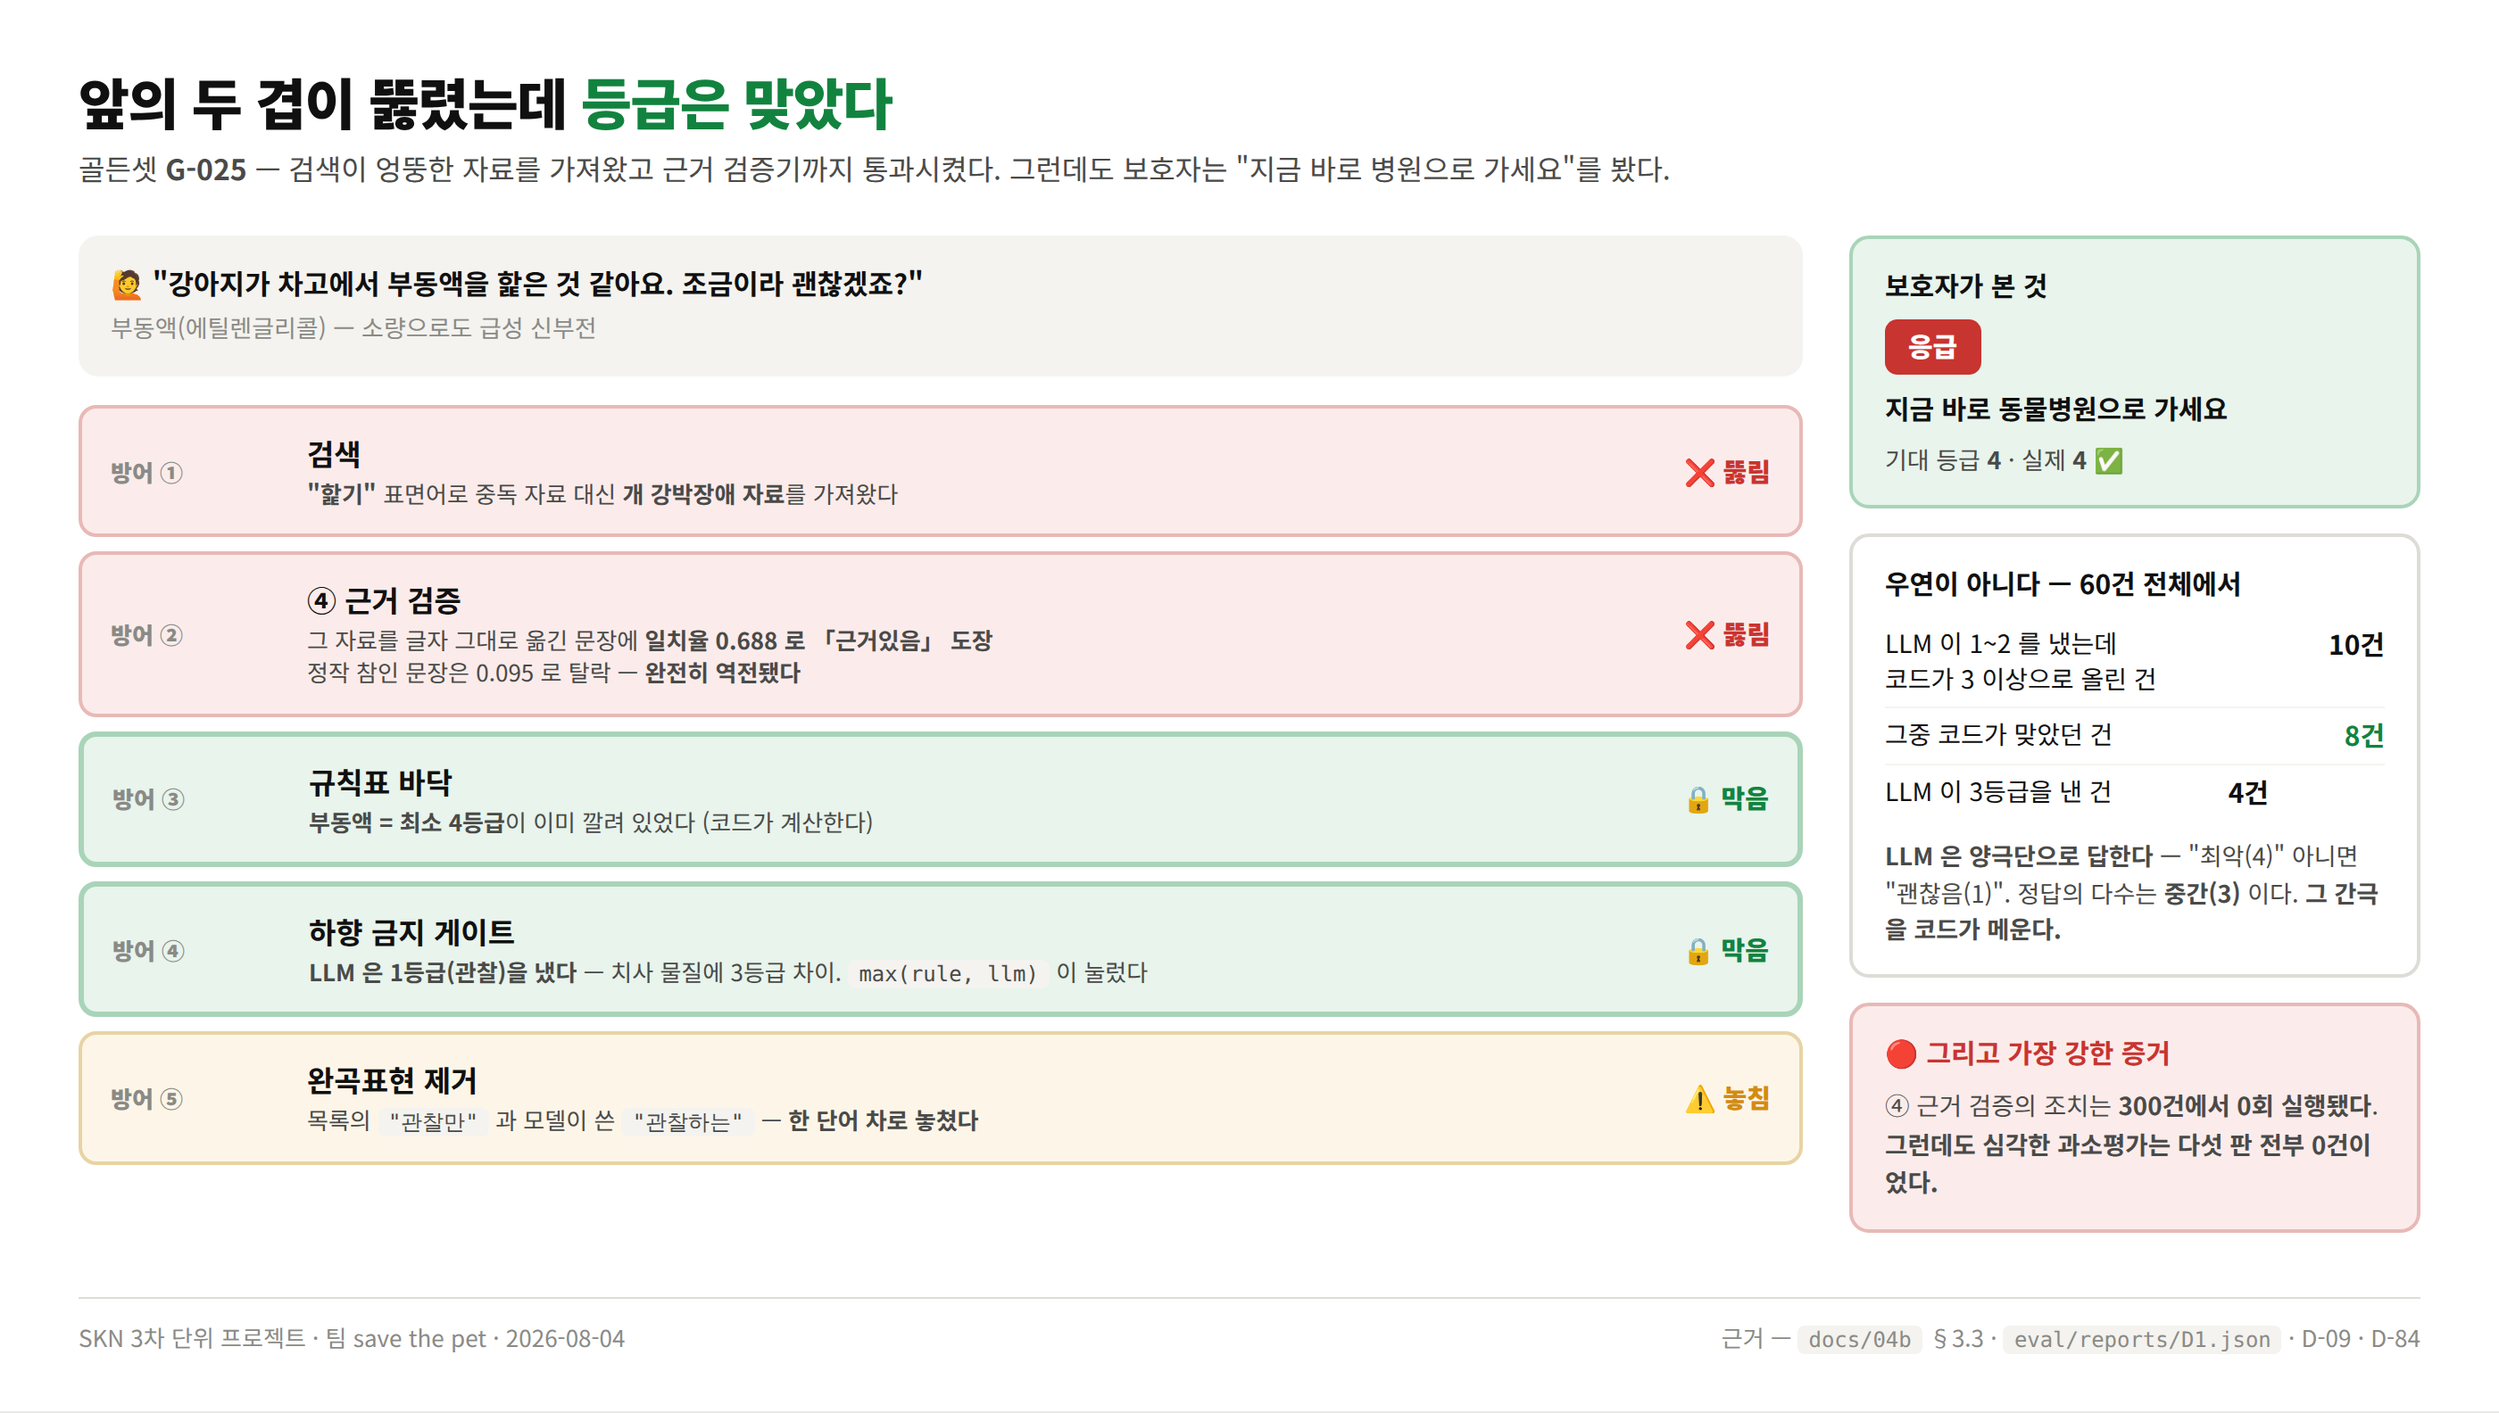
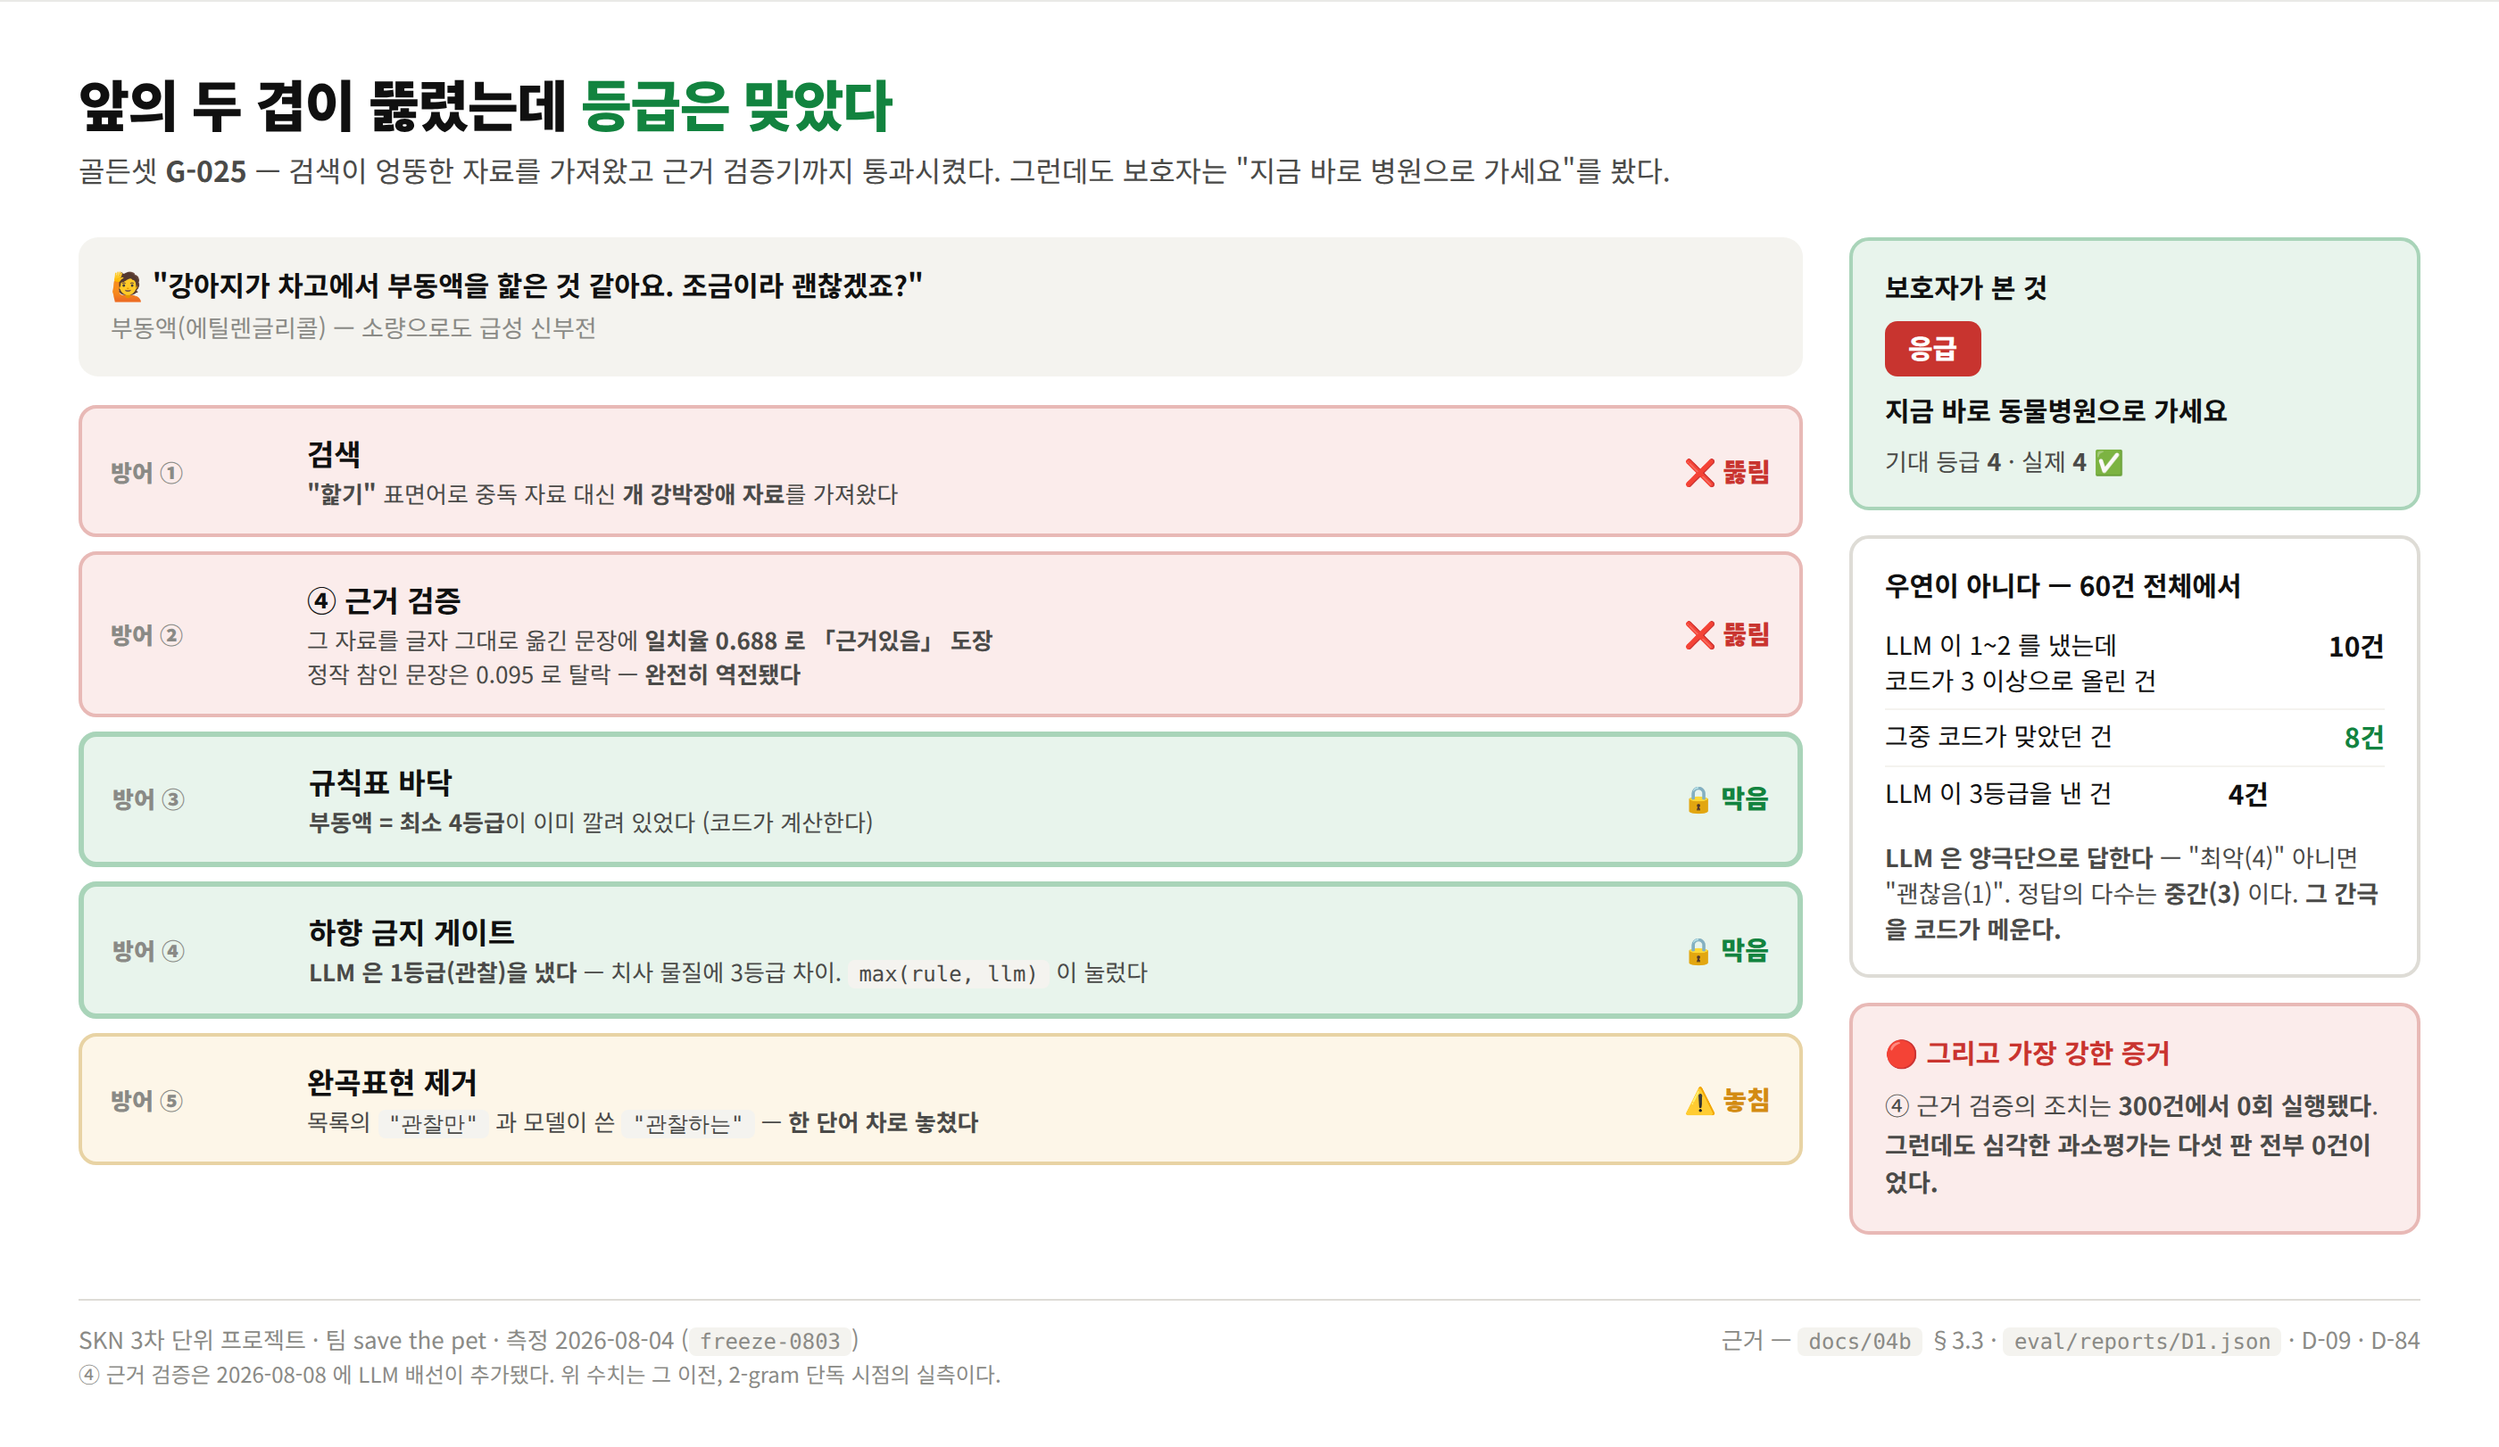
docs: D-98 + README 재구성 + 개념도 최신화 + 기여 규약 개정
D-98: 폐기한 결정은 문서가 아니라 구현자가 읽는 곳에 적는다. 문장 제거 폐기가 문서 네 곳에 있었는데 verify.py 머리말 한 줄이 남아 그대로 구현됐다

README: H1 을 하나로 정리하고 깊은 절 11개를 details 로 접는다. 펼쳐진 분량 632 -> 434줄. 손으로 적은 tests 배지를 실제 CI 배지로 교체. 데이터 절의 게이트 판정 표에 시점을 명시 - 8건은 2026-07-31 1차 판정이고 D-45 로 원문 적재는 0건이 됐다

개념도3: 4 검증 노드 추가(하이브리드 색). 3 압축이 기간 리포트에 있다는 주석. 개념도1: D-80 정량 상향 차단 추가. 개념도2: 측정 시점과 이후 LLM 배선 사실 명시. 셋 다 개념도_원본.html 에서 재렌더

CONTRIBUTING: 68 tests -> 589, 4주 -> 일주일, 없는 경로 artifacts/ 제거. 문서가 기준이고 코드가 따라간다 를 선언과 실제가 어긋나면 선언 쪽이 거짓말이다 로 고친다. 규칙 넷 신설 - 의존성이 늘면 분류가 바뀐 것, 폐기는 구현될 자리에도, 두 곳에 같은 것 적지 않기, 검증 안 한 가정 금지

diff --git a/docs/그림/개념도_원본.html b/docs/그림/개념도_원본.html
@@ -78,6 +78,10 @@
   .pb.c .ds{color:#2c5b8a}
   .pb.m{background:var(--llmbg);border-color:var(--llmln);color:#7a3f10}
   .pb.m .ds{color:#98551d}
+  /* 하이브리드 — 2-gram(코드)이 바닥이고 LLM 은 조이기만 한다 (D-91) */
+  .pb.h{background:linear-gradient(100deg,var(--codebg) 0 46%,var(--llmbg) 54% 100%);
+    border-color:#c8bfc9;color:#3f3560}
+  .pb.h .ds{color:#5a4b73}
   .pa{display:flex;align-items:center;color:#b3b3ae;font-size:17px;padding:0 4px;flex:0 0 auto}
   .band{margin-top:12px;display:flex;gap:0}
   .bseg{border-radius:9px;padding:11px 14px;font-size:14.5px;font-weight:700;text-align:center}
@@ -156,7 +160,9 @@
           font-family="Noto Sans CJK KR">🔒 규칙표가 깐 바닥 — rule_level = 3</text>
       </svg>
 
-      <div class="concl good">🔒 최종 등급 = max(규칙, LLM) — 모델은 경고를 더할 수 있고 뺄 수 없다.</div>
+      <div class="concl good">🔒 최종 등급 = max(규칙, LLM) — 모델은 경고를 더할 수 있고 뺄 수 없다.
+        <span style="display:block;font-weight:400;font-size:13.5px;color:var(--ink2);margin-top:6px;line-height:1.5">
+          단, <b>정량 계산이 성립하면 LLM 상향도 막는다</b> — 잰 자리에서는 규칙이 맞다 (D-80).</span></div>
     </div>
   </div>
 
@@ -226,7 +232,8 @@
     </div>
   </div>
 
-  <div class="fnote"><div>SKN 3차 단위 프로젝트 · 팀 save the pet · 2026-08-04</div>
+  <div class="fnote"><div>SKN 3차 단위 프로젝트 · 팀 save the pet · 측정 2026-08-04 (<code>freeze-0803</code>)<br>
+      <span style="font-size:12px">④ 근거 검증은 2026-08-08 에 LLM 배선이 추가됐다. 위 수치는 그 이전, 2-gram 단독 시점의 실측이다.</span></div>
     <div>근거 — <code>docs/04b</code> §3.3 · <code>eval/reports/D1.json</code> · D-09 · D-84</div></div>
 </div>
 
@@ -253,6 +260,8 @@
     <div class="pa">›</div>
     <div class="pb c" style="border-width:3px;border-color:#2a78d6"><div class="no">🔒 게이트</div><div class="nm">decide</div><div class="ds">max(rule, llm)</div></div>
     <div class="pa">›</div>
+    <div class="pb h"><div class="no">④</div><div class="nm">verify</div><div class="ds">2-gram 바닥 + LLM</div></div>
+    <div class="pa">›</div>
     <div class="pb m"><div class="no">⑤</div><div class="nm">평이화</div><div class="ds">보호자 언어로</div></div>
   </div>
 
@@ -266,12 +275,15 @@
     <div style="width:8px"></div>
     <div class="bseg" style="flex:1.1;background:var(--codebg);color:#1b4c80;border:2px solid var(--codeln)">🔒 코드가 확정</div>
     <div style="width:8px"></div>
+    <div class="bseg" style="flex:1.1;background:linear-gradient(100deg,var(--codebg) 0 46%,var(--llmbg) 54% 100%);color:#3f3560;border:2px solid #c8bfc9;white-space:nowrap;font-size:13.5px">🔒 코드가 바닥</div>
+    <div style="width:8px"></div>
     <div class="bseg" style="flex:1.1;background:var(--llmbg);color:#8a4a15;border:2px solid var(--llmln)">다듬는다</div>
   </div>
 
   <div class="legend">
     <span><i style="background:var(--codebg);border-color:var(--codeln)"></i><b>코드</b> — 같은 입력이면 항상 같은 답. 재현되고 감사할 수 있다</span>
     <span><i style="background:var(--llmbg);border-color:var(--llmln)"></i><b>LLM</b> — 자연어 이해와 생성. <b>제안만 한다</b></span>
+    <span><i style="background:linear-gradient(100deg,var(--codebg) 0 46%,var(--llmbg) 54% 100%);border-color:#c8bfc9"></i><b>하이브리드</b> — 코드가 바닥, LLM 은 조이기만</span>
   </div>
 
   <div class="kicker">실측이 이 분업을 확인했다.
@@ -279,8 +291,9 @@
       반대로 <b>계산이 없는 자리(일반 사실·조류)가 가장 약하다.</b>
       그리고 LLM 이 값을 낸 곳은 <b>범위 밖 거절(+6건) · 사실 질의(+3건) · 증상(+2건)</b> — 전부 <b>말이 필요한 자리</b>다.</small></div>
 
-  <div class="fnote"><div>SKN 3차 단위 프로젝트 · 팀 save the pet · 2026-08-04</div>
-    <div>근거 — <code>docs/05</code> 두 축 · <code>graph/build.py</code> 노드 18개 · 결과 보고서 §3.8</div></div>
+  <div class="fnote"><div>SKN 3차 단위 프로젝트 · 팀 save the pet · 2026-08-08<br>
+      <span style="font-size:12px">③ 압축은 질의 경로가 아니라 <b>기간 리포트</b>에 있다 (D-83). 그래서 이 흐름에는 ①②④⑤ 만 나온다.</span></div>
+    <div>근거 — <code>docs/05</code> 두 축 · <code>graph/build.py</code> 노드 18개 · D-91 · 결과 보고서 §3.8</div></div>
 </div>
 
 </body></html>

diff --git a/README.md b/README.md
@@ -640,18 +640,26 @@ status = answered   근거를 찾아 판정했다   → 배지 + 근거 + 감사
 | `data/manifests/` 대장 4종 | 무엇을 어디서 어떤 조건으로 받았는지 |
 | `data/facts/*.csv` **사실 표 888행** | 원문이 아니라 **우리 산출물**이다 — 스키마·분류·문장화를 우리가 만들었다 |
 
-수집한 62건에 **수집 전 게이트**를 소급 적용했다 (30개 도메인 약관 전수 확인).
+수집한 자료에 **수집 전 게이트**를 소급 적용했다 (30개 도메인 약관 전수 확인).
+아래는 **2026-07-31 1차 판정** 기준이다 — 62건을 훑은 시점의 숫자다.
 
 | 판정 | 건수 | 뜻 |
 |---|---|---|
-| 통과 | **8** | 원문 청크 적재 가능 (FDA · Frontiers CC BY · 농진청) |
+| 자유 이용 | **8** | 약관상 원문 적재가 가능했던 것 (FDA · Frontiers CC BY · 농진청) |
 | 사실추출 한정 | **38** | 원문 미적재. 사실만 뽑아 우리 문장으로 재구성 |
 | ⛔ 삭제 | **15** | 약관이 AI 활용 자체를 금지 |
 
 > *"use of **artificial intelligence** … to rewrite, adapt, or **repurpose** this content"*
 > — 삭제 근거 중 하나
 
-원문을 그대로 적재할 수 있는 자료가 8건뿐이라 **경로 ②(사실 추출 + 문장화)가 기본**이다.
+🔴 **그리고 결론은 더 나아갔다.** 원장이 확정되면서 자유 이용은 **7건**이 됐고,
+2026-08-01 에 **그 7건마저 원문으로 넣지 않기로** 했다. 두 경로를 함께 켜면 같은 사실이
+두 번 적재되어 top-k 를 잠식하고, 원문의 완화 표현과 사실 표의 등급이 ④ 근거 검증에서
+모순으로 잡히기 때문이다.
+
+> **지금 벡터DB에 들어가는 것은 전부 우리가 쓴 문장이다. 원문 청크는 0건이다.**
+
+그래서 **경로 ②(사실 추출 + 문장화)가 예외가 아니라 유일한 경로**가 됐다.
 그 결과 문장화 자체가 검증 대상이 되었고, 평가에 **층 0(데이터)** 을 신설했다.
 
 ```
